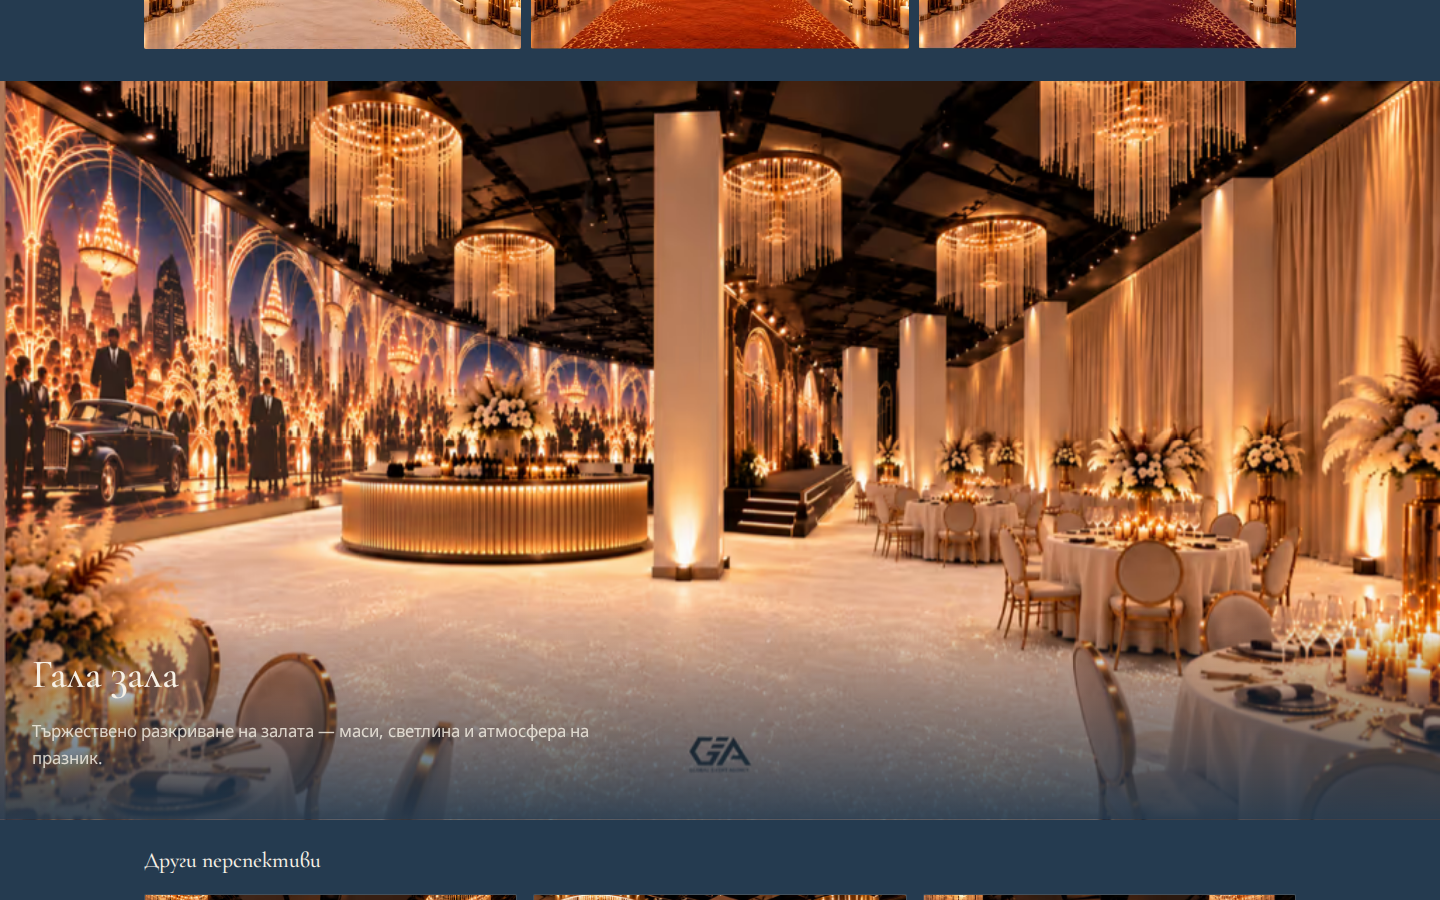
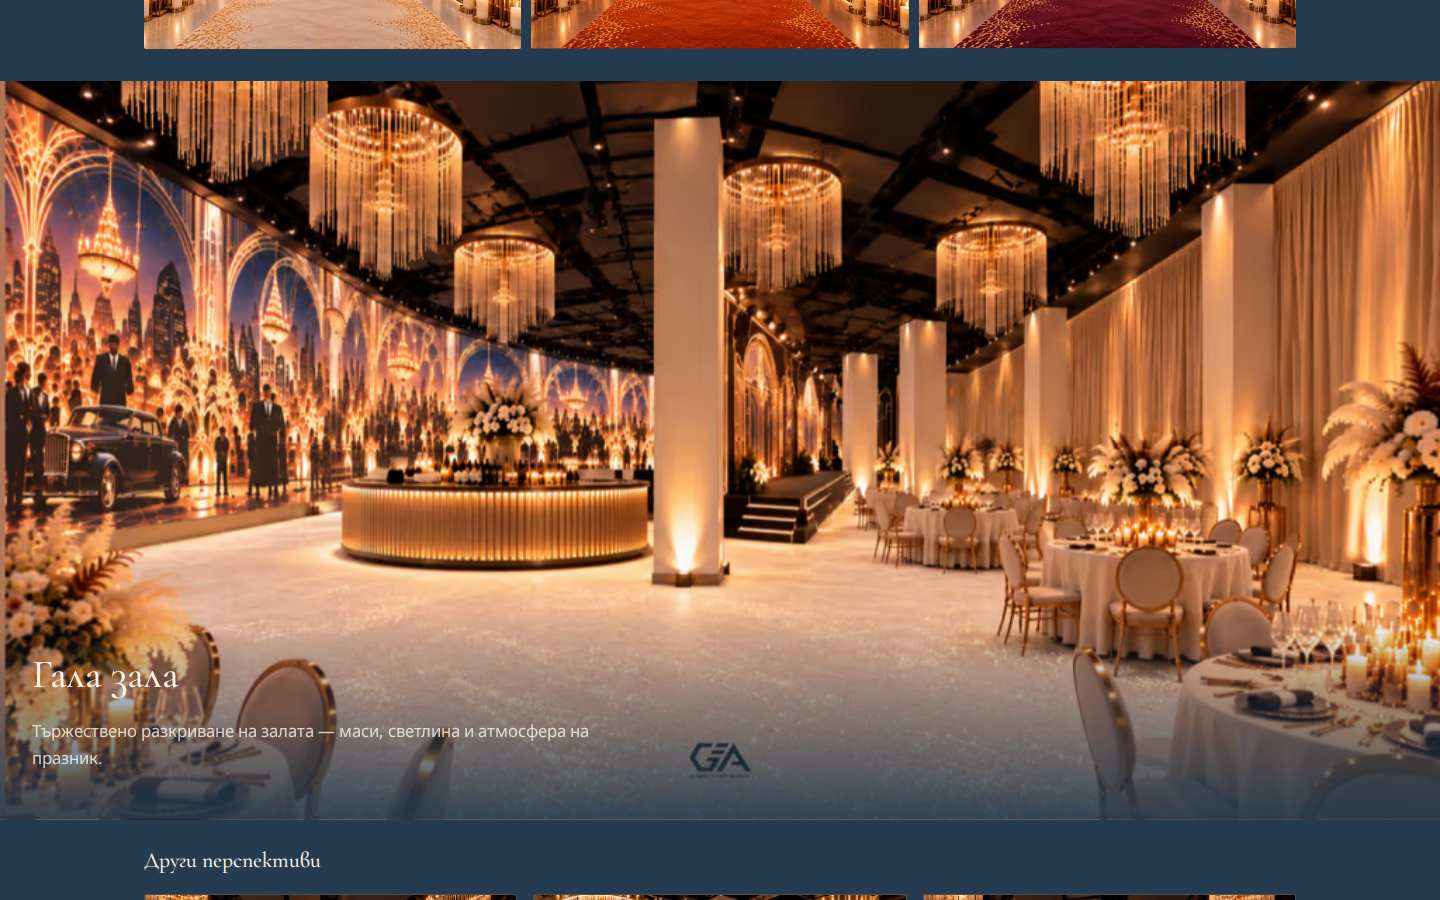
fix(v3): hero legibility, first-floor markers, owner asset pipeline docs
Stronger hero scrim and ivory headline scale; first-floor markers reveal
by ~76% scroll with mobile legend; gala object-position for GA watermark;
sources/v3/videos canonical names + renders folder; refreshed v3 screenshots.

diff --git a/src/styles/scenes.css b/src/styles/scenes.css
@@ -15,13 +15,15 @@
 .hero-entrance__scrim {
   position: absolute;
   inset: 0;
-  background: linear-gradient(
-    102deg,
-    rgba(37, 59, 80, 0.88) 0%,
-    rgba(37, 59, 80, 0.52) 36%,
-    rgba(51, 80, 107, 0.22) 58%,
-    rgba(51, 80, 107, 0.05) 100%
-  );
+  background:
+    linear-gradient(
+      145deg,
+      rgba(23, 36, 52, 0.92) 0%,
+      rgba(37, 59, 80, 0.78) 28%,
+      rgba(37, 59, 80, 0.35) 52%,
+      transparent 72%
+    ),
+    linear-gradient(0deg, rgba(23, 36, 52, 0.55) 0%, transparent 38%);
   z-index: 3;
   pointer-events: none;
 }
@@ -30,24 +32,47 @@
   position: absolute;
   z-index: 4;
   left: clamp(1.25rem, 5vw, 4rem);
-  top: 50%;
-  transform: translateY(-50%);
-  max-width: min(28rem, calc(100vw - 2.5rem));
+  bottom: clamp(2.5rem, 12vh, 5rem);
+  top: auto;
+  transform: none;
+  max-width: min(34rem, calc(100vw - 2.5rem));
   padding-right: 0.5rem;
   color: var(--color-ivory);
+}
+
+.hero-entrance__copy .eyebrow {
+  font-size: clamp(0.72rem, 1.1vw, 0.82rem);
+  letter-spacing: 0.2em;
+  color: #e8d4a8;
+  text-shadow: 0 1px 12px rgba(0, 0, 0, 0.55);
+  margin-bottom: 0.85rem;
+}
+
+.hero-entrance__copy .display {
+  font-size: clamp(3rem, 6vw, 5.5rem);
+  line-height: 1.04;
+  color: var(--color-ivory);
+  text-shadow: 0 2px 24px rgba(0, 0, 0, 0.45), 0 1px 3px rgba(0, 0, 0, 0.35);
+}
+
+.hero-entrance__copy .lead {
+  font-size: clamp(1.1rem, 2.2vw, 1.45rem);
+  line-height: 1.35;
+  text-shadow: 0 1px 14px rgba(0, 0, 0, 0.5);
 }
 
 @media (max-width: 899px) {
   .hero-entrance__copy {
     left: 1rem;
     right: 1rem;
+    bottom: clamp(1.75rem, 10svh, 3rem);
     max-width: none;
   }
 
   .hero-entrance__copy .display {
-    font-size: clamp(1.28rem, 5.4vw, 1.85rem);
-    line-height: 1.12;
-    max-width: 11.5em;
+    font-size: clamp(2.6rem, 9.5vw, 3rem);
+    line-height: 1.06;
+    max-width: none;
   }
 }
 
@@ -777,9 +802,9 @@
   inset: 0;
   background: linear-gradient(
     180deg,
-    rgba(37, 59, 80, 0.35) 0%,
-    rgba(37, 59, 80, 0.08) 42%,
-    rgba(37, 59, 80, 0.75) 100%
+    rgba(37, 59, 80, 0.22) 0%,
+    rgba(37, 59, 80, 0.04) 48%,
+    rgba(37, 59, 80, 0.82) 100%
   );
   pointer-events: none;
   z-index: 2;
@@ -828,10 +853,48 @@
 }
 
 .first-floor__marker-label {
-  font-size: 0.72rem;
+  font-size: 0.78rem;
   line-height: 1.25;
   color: var(--color-ivory);
-  text-shadow: 0 1px 8px rgba(0, 0, 0, 0.65);
+  padding: 0.2rem 0.45rem;
+  border-radius: 2px;
+  background: rgba(23, 36, 52, 0.72);
+  border: 1px solid rgba(212, 176, 118, 0.35);
+  text-shadow: 0 1px 6px rgba(0, 0, 0, 0.55);
+  max-width: 10.5rem;
+}
+
+.first-floor__legend {
+  list-style: none;
+  margin: 0 0 0.65rem;
+  padding: 0.55rem 0.65rem;
+  display: grid;
+  gap: 0.35rem;
+  font-size: 0.78rem;
+  line-height: 1.3;
+  color: rgba(247, 241, 230, 0.92);
+  background: rgba(23, 36, 52, 0.55);
+  border: 1px solid rgba(212, 176, 118, 0.28);
+  border-radius: 2px;
+}
+
+.first-floor__legend li {
+  display: flex;
+  align-items: baseline;
+  gap: 0.45rem;
+}
+
+.first-floor__legend-num {
+  flex: 0 0 auto;
+  width: 1.15rem;
+  height: 1.15rem;
+  border-radius: 50%;
+  display: grid;
+  place-items: center;
+  font-size: 0.65rem;
+  font-weight: 600;
+  color: var(--color-navy);
+  background: var(--color-gold);
 }
 
 .first-floor__overlay-copy {
@@ -1025,6 +1088,12 @@
   height: 100%;
   object-fit: cover;
   min-height: min(82svh, 860px);
+}
+
+@media (max-width: 899px) {
+  .gala-reveal__hero img {
+    object-position: 50% 36%;
+  }
 }
 
 .gala-reveal__hero-copy {

diff --git a/src/scenes/FirstFloorOverviewScene.tsx b/src/scenes/FirstFloorOverviewScene.tsx
@@ -2,14 +2,33 @@ import type { FirstFloorOverviewSceneData } from '@/content/types';
 import { ResponsivePicture } from '@/components/ResponsivePicture';
 import { useScrollProgress } from '@/lib/useScrollProgress';
 import { getPrefersReducedMotion } from '@/lib/reducedMotion';
+import { useEffect, useState } from 'react';
 
 interface Props {
   data: FirstFloorOverviewSceneData;
 }
 
+function markerReveal(progress: number, index: number, reduced: boolean): number {
+  if (reduced) return 1;
+  if (progress >= 0.62) return 1;
+  return Math.min(1, Math.max(0, (progress - index * 0.1) * 2.8));
+}
+
 export function FirstFloorOverviewScene({ data }: Props) {
   const reduced = getPrefersReducedMotion();
   const { trackRef, progress } = useScrollProgress(!reduced);
+  const [narrow, setNarrow] = useState(false);
+
+  useEffect(() => {
+    const mq = window.matchMedia('(max-width: 899px)');
+    const sync = () => setNarrow(mq.matches);
+    sync();
+    mq.addEventListener('change', sync);
+    return () => mq.removeEventListener('change', sync);
+  }, []);
+
+  const showLegend = narrow && progress >= 0.35;
+
   return (
     <section id={`scene-${data.id}`} className="first-floor" aria-labelledby="first-floor-heading">
       <div
@@ -28,11 +47,13 @@ export function FirstFloorOverviewScene({ data }: Props) {
                 style={{
                   strokeDasharray: 100,
                   strokeDashoffset: reduced ? 0 : 100 - progress * 100,
+                  opacity: reduced ? 1 : Math.min(1, progress * 1.8 + 0.15),
                 }}
               />
             </svg>
             {data.markers.map((m, i) => {
-              const reveal = reduced ? 1 : Math.min(1, Math.max(0, (progress - i * 0.18) * 3.2));
+              const reveal = markerReveal(progress, i, reduced);
+              const label = narrow ? (m.labelShortBg ?? m.labelBg) : m.labelBg;
               return (
                 <div
                   key={m.id}
@@ -41,16 +62,26 @@ export function FirstFloorOverviewScene({ data }: Props) {
                     left: `${m.x * 100}%`,
                     top: `${m.y * 100}%`,
                     opacity: reveal,
-                    transform: `translate(-50%, -50%) translateY(${(1 - reveal) * 10}px)`,
+                    transform: `translate(-50%, -50%) translateY(${(1 - reveal) * 10}px) scale(${0.92 + reveal * 0.08})`,
                   }}
                 >
                   <span className="first-floor__marker-num">{m.order}</span>
-                  <span className="first-floor__marker-label">{m.labelBg}</span>
+                  {!narrow && <span className="first-floor__marker-label">{label}</span>}
                 </div>
               );
             })}
           </div>
           <div className="first-floor__overlay-copy">
+            {showLegend && (
+              <ol className="first-floor__legend" aria-label="Маршрут на първи етаж">
+                {data.markers.map((m) => (
+                  <li key={m.id}>
+                    <span className="first-floor__legend-num">{m.order}</span>
+                    {m.labelBg}
+                  </li>
+                ))}
+              </ol>
+            )}
             <h2 id="first-floor-heading" className="section-title section-title--on-dark">
               {data.titleBg}
             </h2>

diff --git a/src/content/site.bg.ts b/src/content/site.bg.ts
@@ -73,10 +73,10 @@ export const siteStatic: Omit<SiteContent, 'dev'> = {
       titleBg: 'Първи етаж',
       bodyBg: 'Зона коктейл преди официалната част — следете маршрута на госта.',
       markers: [
-        { id: 'entrance', order: 1, labelBg: 'Вход', x: 0.5, y: 0.88 },
-        { id: 'glass', order: 2, labelBg: 'Стъклото вляво', x: 0.17, y: 0.64 },
-        { id: 'photo', order: 3, labelBg: 'Фото зона в далечния край', x: 0.5, y: 0.15 },
-        { id: 'elevators', order: 4, labelBg: 'Асансьори вляво от автомобила', x: 0.31, y: 0.19 },
+        { id: 'entrance', order: 1, labelBg: 'Вход', labelShortBg: 'Вход', x: 0.5, y: 0.9 },
+        { id: 'glass', order: 2, labelBg: 'Стъклото вляво', labelShortBg: 'Стъкло', x: 0.13, y: 0.78 },
+        { id: 'photo', order: 3, labelBg: 'Фото зона в далечния край', labelShortBg: 'Фото зона', x: 0.4, y: 0.2 },
+        { id: 'elevators', order: 4, labelBg: 'Асансьори вляво от автомобила', labelShortBg: 'Асансьори', x: 0.24, y: 0.22 },
       ],
     },
     {
@@ -136,6 +136,7 @@ export const siteStatic: Omit<SiteContent, 'dev'> = {
       type: 'galaReveal',
       id: 'gala-reveal',
       primaryAssetId: 'second_floor_gala_view_A',
+      primaryObjectPosition: '48% 42%',
       titleBg: 'Гала зала',
       bodyBg: 'Тържествено разкриване на залата — маси, светлина и атмосфера на празник.',
       perspectivesNoteBg: 'Други перспективи',

diff --git a/src/scenes/GalaRevealScene.tsx b/src/scenes/GalaRevealScene.tsx
@@ -9,7 +9,12 @@ export function GalaRevealScene({ data }: Props) {
   return (
     <section id={`scene-${data.id}`} className="gala-reveal" aria-labelledby="gala-heading">
       <div className="gala-reveal__hero">
-        <ResponsivePicture assetId={data.primaryAssetId} objectFit="cover" priority />
+        <ResponsivePicture
+          assetId={data.primaryAssetId}
+          objectFit="cover"
+          objectPosition={data.primaryObjectPosition ?? '50% 50%'}
+          priority
+        />
         <div className="gala-reveal__hero-copy">
           <h2 id="gala-heading" className="section-title section-title--on-dark">
             {data.titleBg}

diff --git a/src/scenes/HeroEntranceScene.tsx b/src/scenes/HeroEntranceScene.tsx
@@ -54,7 +54,7 @@ export function HeroEntranceScene({ hero, entrance, entranceTransition, ui }: Pr
         style={{ height: reduced ? 'auto' : 'min(120svh, 120vh)' }}
       >
         <div className="hero-entrance__stage">
-          <div className="hero-entrance__scrim" style={{ opacity: 1 - gradientReveal * 0.35 }} />
+          <div className="hero-entrance__scrim" style={{ opacity: Math.max(0.92, 1 - gradientReveal * 0.08) }} />
           <div className="hero-entrance__copy" style={{ opacity: heroFade }}>
             <p className="eyebrow">{hero.eventMetaBg}</p>
             <h1 className="display">{hero.headlineBg}</h1>

diff --git a/src/content/types.ts b/src/content/types.ts
@@ -69,6 +69,8 @@ export interface SpatialMarker {
   id: string;
   order: number;
   labelBg: string;
+  /** Shorter label for narrow viewports (legend uses full labelBg) */
+  labelShortBg?: string;
   /** Approximate normalized position on overview art (0–1) */
   x: number;
   y: number;
@@ -134,6 +136,8 @@ export interface GalaRevealSceneData {
   type: 'galaReveal';
   id: string;
   primaryAssetId: string;
+  /** CSS object-position for hero still (e.g. crop agency watermark) */
+  primaryObjectPosition?: string;
   titleBg: string;
   bodyBg: string;
   perspectives: GalaPerspective[];

diff --git a/README.md b/README.md
@@ -21,6 +21,24 @@ npm run validate
 
 Requires `ffmpeg` and `sharp` for `npm run assets`.
 
+### Replace with originals
+
+Drop client masters here, then regenerate optimized outputs (missing files are skipped):
+
+| Folder | Purpose |
+|--------|---------|
+| `sources/v3/stills/` | Owner stills (e.g. `first_floor_layout_with_glass.png`, `second_floor_gala_view_A.png`, `second_floor_gala_view_B.png`) |
+| `sources/v3/videos/` | Full-res clips — **`arrival.mp4`**, **`champagne.mp4`**, **`glass-confetti.mp4`**, **`photo-zone-car.mp4`**, **`corridor-walkthrough.mp4`** (legacy names under `sources/v3/video/` still work) |
+| `sources/v3/renders/` | Clean agency renders without baked watermarks (basename becomes `public/media/img/{basename}-*.webp` etc.) |
+
+```bash
+npm run assets:v3    # videos + stills + renders → public/media/
+npm run assets       # full pipeline including PDF crops and legacy encodes
+npm run validate
+```
+
+Wire new render basenames in `src/content/assets.ts` if they replace PDF crops.
+
 ### GitHub Pages
 
 **Live URL (after deploy on `main`):** [https://zerofook.github.io/luxury-event-presentation/](https://zerofook.github.io/luxury-event-presentation/)
@@ -88,6 +106,7 @@ Encoded via `scripts/make-v3-video.mjs` from `sources/v3/video/` (correctly rena
 
 ### Known limitations
 
+- **Gala hero (`second_floor_gala_view_A`):** small **«GA»** agency watermark on the floor — not retouched; desktop/mobile crop via `object-position` de-emphasizes it; clean masters belong in `sources/v3/renders/` or a replacement still in `sources/v3/stills/`
 - PDF rasters ≤2048px; baked text/watermarks on p7/p21 composites
 - Short AI-looking clips; artefacts not manually retouched
 - Real-device iOS autoplay / FPS not verified here
